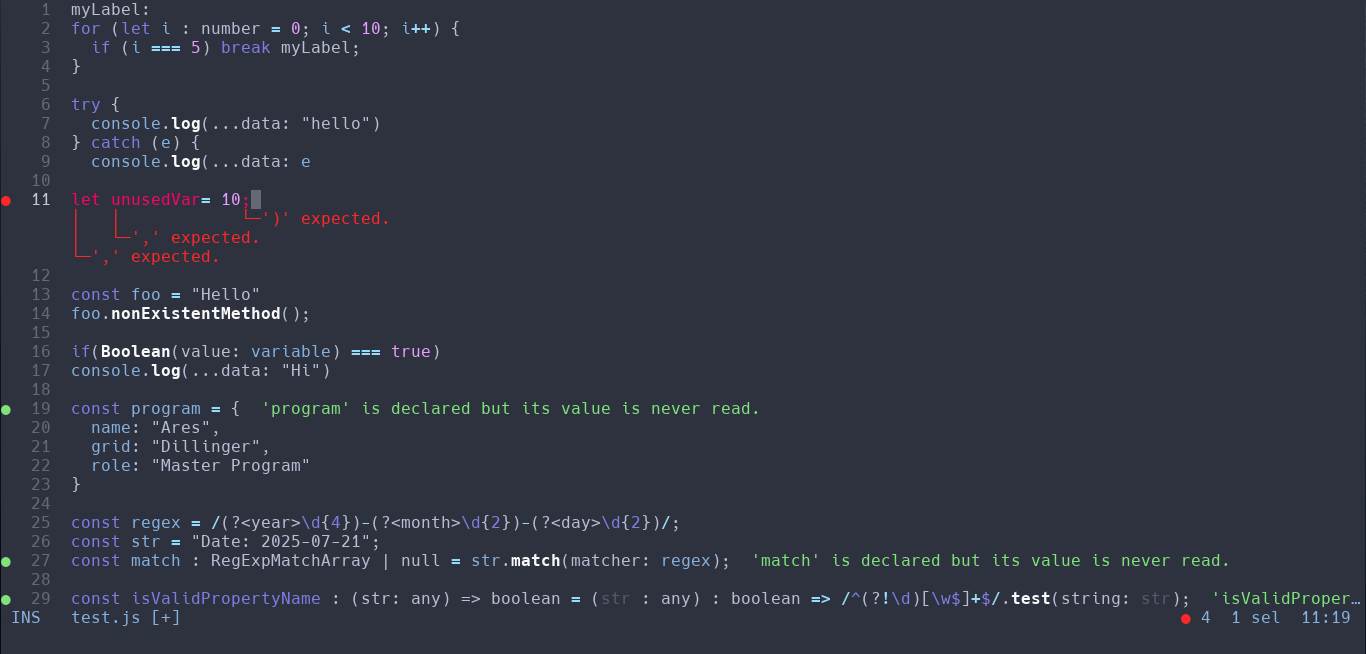
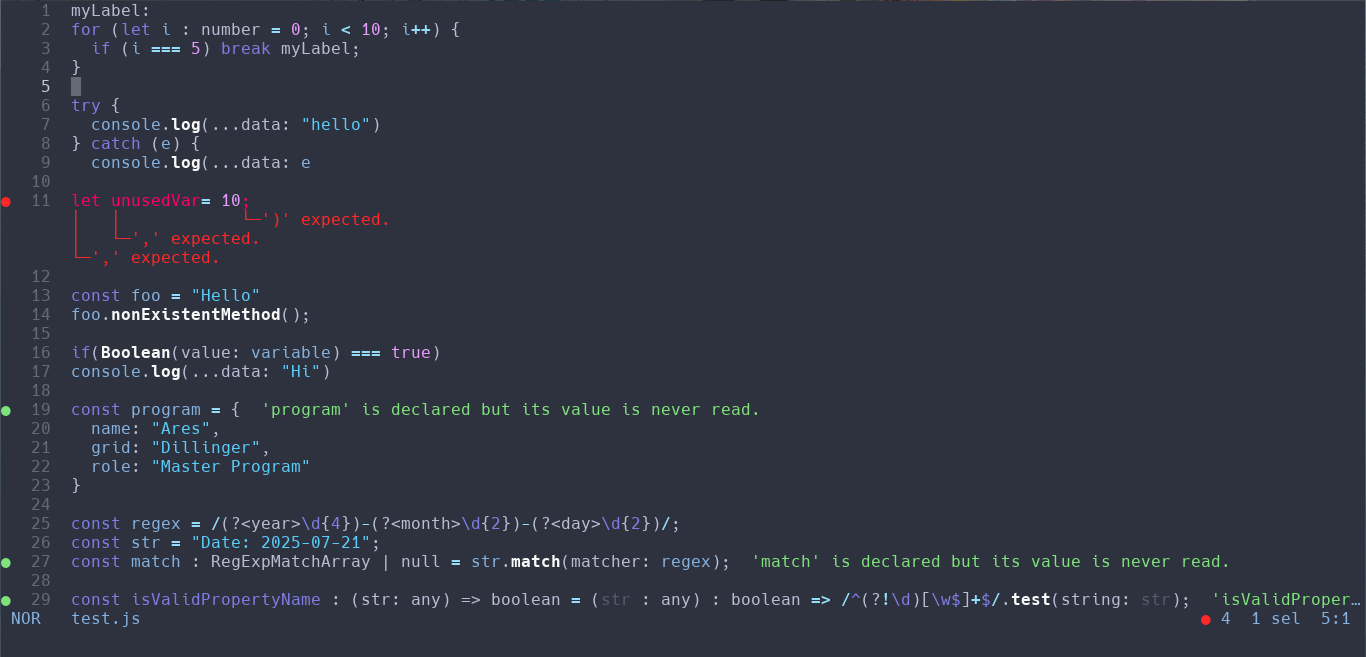
Updated README and added images

diff --git a/README.md b/README.md
@@ -1,20 +1,76 @@
 # Ariake Dark for Helix
-Ariake Dark Theme based on VSCode [Ariake Dark] for Helix which is based on [Ariake Dark Syntax theme] by @[pathtrk]
+Ariake Dark Theme based on VSCode [Ariake Dark] for Helix which is based on [Ariake Dark Syntax theme] by @[pathtrk] and other variants like [Ariake Vim Colors] by @[jim-at-jibba]
 
 ## Examples
-**React/JSX**
-
-
-
+### Normal theme
 **HTML**
+!["HTML example"][html_normal]
+
+**Javascript**
+!["Javascript example"][js_normal]
+
+**CSS**
+!["CSS example"][css_normal]
+
+**TypeScript**
+!["TypeScript example"][ts_normal]
+
+**React/JSX**
+!["React example"][jsx_normal]
+
+**JSON**
+!["JSON example"][json_normal]
+
+**Symbol picker**
+!["Symbol picker"][symbol_picker_normal]
 
 
+### Transparent theme
+**HTML**
+!["HTML example"][html_transparent]
 
+**Javascript**
+!["Javascript example"][js_transparent]
 
+**CSS**
+!["CSS example"][css_transparent]
 
+**TypeScript**
+!["TypeScript example"][ts_transparent]
 
+**React/JSX**
+!["React example"][jsx_transparent]
+
+**JSON**
+!["JSON example"][json_transparent]
+
+**Symbol picker**
+!["Symbol picker"][symbol_picker_transparent]
+
+## How to install it
+Just add the .toml files in the `~/.config/helix/themes` folder (or `C:/Users/<USER>/AppData/Roaming/helix/themes` on Windows) then on `~/.config/helix/config.toml` or `C:/Users/<USER>/AppData/Roaming/helix/config.toml` write `theme = "Ariake_dark"` or `theme = "Ariake_dark_transparent"`. 
+
+You can also try it using `:theme Ariake_dark` or `:theme Ariake_dark_transparent` but it won't keep it until you modify the `config.toml`.
 
 
 [Ariake Dark]: https://marketplace.visualstudio.com/items?itemName=wart.ariake-dark "VSCode theme"
 [Ariake Dark Syntax Theme]: https://github.com/pathtrk/ariake-dark-syntax "Original theme for Atom"
 [pathtrk]: https://github.com/pathtrk/ "Pathtk's GitHub profile"
+[Ariake Vim Colors]: https://github.com/jim-at-jibba/ariake-vim-colors "Theme for vim"
+[jim-at-jibba]: https://github.com/jim-at-jibba "Jim-at-jibba's GitHub profile"
+
+[html_normal]: images/html_normal.png "HTML example"
+[js_normal]: images/js_normal.png "Javascript example"
+[css_normal]: images/css_normal.png "CSS example"
+[ts_normal]: images/ts_normal.png "TypeScript example"
+[jsx_normal]: images/jsx_normal.png "React example"
+[json_normal]: images/json_normal.png "JSON example"
+[symbol_picker_normal]: images/symbol_picker_normal.png "Symbol picker example"
+
+[html_transparent]: images/html_transparent.png "HTML example"
+[js_transparent]: images/js_transparent.png "Javascript example"
+[css_transparent]: images/css_transparent.png "CSS example"
+[ts_transparent]: images/ts_transparent.png "TypeScript example"
+[jsx_transparent]: images/jsx_transparent.png "React example"
+[json_transparent]: images/json_transparent.png "JSON example"
+[symbol_picker_transparent]: images/symbol_picker_transparent.png "Symbol picker example"
